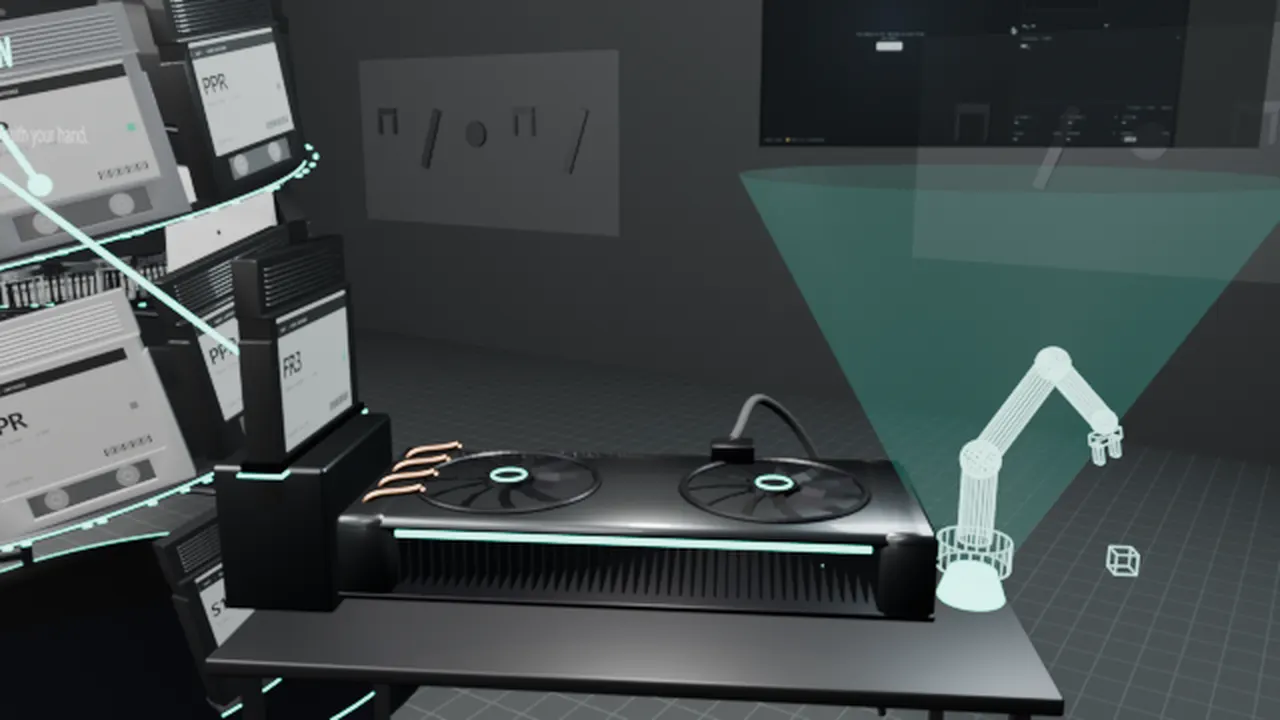
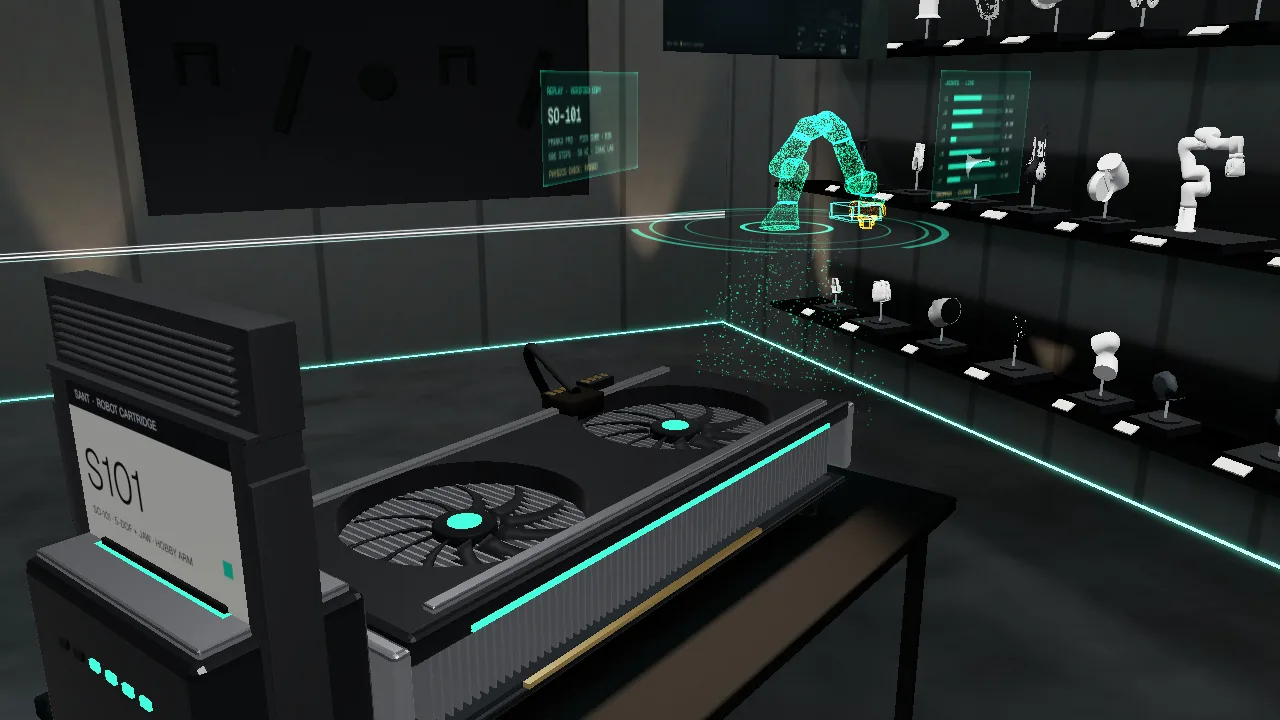
web(world): machine v2 follow-ups: the descent forms the new machine, new stills, the cable tinted
- Descent (Generator.tsx, the machine's targets only): the machine_body share now samples
  machine_v2's surfaces (machineV2Points, coloured per surface, floored at the descent's graphite)
  plus the kept cable and plug, by area. 74 points in the page carry the new model's exact teal.
- Stills: workshop.webp, machine.webp and zoom.webp re-rendered in SwiftShader (1280x720, WebP).
- Cable: CABLE_TINT (0.17, 0.24, 0.35) on the cut body's cable vertices brings it from about
  (99, 84, 72) on screen to (40, 40, 42), the live card's dark rubber; the plug keeps its colour.
  Baked turns vertex colours on when a cut carries them.

diff --git a/web/src/world/stations/descent/Generator.tsx b/web/src/world/stations/descent/Generator.tsx
@@ -1,8 +1,9 @@
 // The transition's particles (generatorPlan.ts): one Points draw. Over the descent THE RING (the reactor's
 // top ring, lifted off the core: stations/intro) bursts into a cloud that fills the shaft round the
 // camera as it dives through, then every particle streams down onto its point of the
-// workshop, sampled from the baked GLBs with the colour of the atlas there, and the cartridges on the
-// spiral and the shelves as boxes. The room is a glittering sculpture before it is a room. As the
+// workshop, sampled from the baked GLBs with the colour of the atlas there (the machine from
+// machine_v2.glb with its surfaces' colours, scene/machineV2.ts), and the cartridges on the spiral and the
+// shelves as boxes. The room is a glittering sculpture before it is a room. As the
 // workshop's travel materializes the real surfaces (scene/dissolve.ts), each particle fades exactly
 // where its surface appears: the shader evaluates the same field at its target. Off with reduced motion
 // (the room fades in behind the veil instead).
@@ -13,9 +14,11 @@ import * as THREE from "three";
 import { ambient } from "../../core/activity";
 import type { QualityTier } from "../../core/quality";
 import type { StationFrame } from "../../core/types";
-import { BAKED, bakedUrl, type BakedName } from "../../scene/assets";
+import { MACHINE_ANCHOR } from "../../core/layout";
+import { BAKED, MACHINE_V2_URL, bakedUrl, type BakedName } from "../../scene/assets";
 import { DISSOLVE_EDGE, DISSOLVE_GLSL, dissolve, FIELD_MAX } from "../../scene/dissolve";
 import { HELIX, LIBRARY, type Slot } from "../../scene/layout";
+import { cutBakedBody, machineV2Points, splitMachineV2, surfaceArea } from "../../scene/machineV2";
 import { RING_TUBE, THE_RING } from "../intro/layout";
 import { seeded } from "../intro/particles";
 import { burstPoints, POINTS, SHARES, sampleBox, sampleTriangles, splitBudget, type Piece } from "./generatorPlan";
@@ -117,7 +120,7 @@ interface Buffers {
   geometry: THREE.BufferGeometry;
 }
 
-function build(scenes: Record<BakedName, THREE.Object3D>, n: number): Buffers {
+function build(scenes: Record<BakedName, THREE.Object3D>, machine: THREE.Object3D, n: number): Buffers {
   const rnd = seeded(23);
   const counts = splitBudget(n, SHARES);
   const target = new Float32Array(n * 3);
@@ -126,13 +129,8 @@ function build(scenes: Record<BakedName, THREE.Object3D>, n: number): Buffers {
   const c = new THREE.Color();
   const v = new THREE.Vector3();
 
-  for (const name of BAKED) {
-    const count = counts[name as Piece];
-    const root = scenes[name];
-    root.updateMatrixWorld(true);
-    const mesh = root.getObjectByName(`baked_${name}`) as THREE.Mesh | undefined;
-    if (!mesh || !count) continue;
-    const g = mesh.geometry as THREE.BufferGeometry;
+  /** count points over a baked mesh (geometry g, in its own frame), coloured from its atlas. */
+  const sampleBaked = (mesh: THREE.Mesh, g: THREE.BufferGeometry, count: number) => {
     const s = sampleTriangles(
       { position: g.attributes.position.array, index: g.index ? g.index.array : null, uv: g.attributes.uv ? g.attributes.uv.array : null },
       count,
@@ -145,6 +143,35 @@ function build(scenes: Record<BakedName, THREE.Object3D>, n: number): Buffers {
       read(s.uv[i * 2], s.uv[i * 2 + 1], c);
       color.set([c.r, c.g, c.b], at * 3);
     }
+  };
+
+  for (const name of BAKED) {
+    const count = counts[name as Piece];
+    const root = scenes[name];
+    root.updateMatrixWorld(true);
+    const mesh = root.getObjectByName(`baked_${name}`) as THREE.Mesh | undefined;
+    if (!mesh || !count) continue;
+    const g = mesh.geometry as THREE.BufferGeometry;
+    if (name !== "machine_body") {
+      sampleBaked(mesh, g, count);
+      continue;
+    }
+    // The machine is machine_v2 now (scene/machineV2.ts): its own surfaces, plus what the room keeps of
+    // the baked body (the cable and plug), each its share of the points by area.
+    const parts = splitMachineV2(machine);
+    const cable = cutBakedBody(g);
+    const area = [parts.body, parts.glow, parts.slot, parts.lens, ...parts.fans.flatMap((f) => [f.body, f.mark])].reduce((s, x) => s + surfaceArea(x), 0);
+    const cableN = Math.round((count * surfaceArea(cable)) / (surfaceArea(cable) + area));
+    sampleBaked(mesh, cable, cableN);
+    const pts = machineV2Points(parts, count - cableN, rnd);
+    const anchor = new THREE.Vector3(...MACHINE_ANCHOR);
+    for (let i = 0; i < count - cableN; i++, at++) {
+      v.fromArray(pts.position, i * 3).add(anchor);
+      target.set([v.x, v.y, v.z], at * 3);
+      color.set([pts.color[i * 3], pts.color[i * 3 + 1], pts.color[i * 3 + 2]], at * 3);
+    }
+    cable.dispose();
+    [parts.body, parts.glow, parts.slot, parts.lens, ...parts.fans.flatMap((f) => [f.body, f.mark])].forEach((x) => x.dispose());
   }
   const shells = HELIX.map((h) => (h.shell ? new THREE.Color(h.shell[0], h.shell[1], h.shell[2]) : null));
   for (const [slots, count, shell] of [
@@ -176,12 +203,13 @@ function build(scenes: Record<BakedName, THREE.Object3D>, n: number): Buffers {
 
 export function Generator({ frame, quality, reduced }: { frame: StationFrame; quality: QualityTier; reduced: boolean }) {
   const gltfs = useGLTF(BAKED.map(bakedUrl), false) as unknown as { scene: THREE.Object3D }[];
+  const machine = useGLTF(MACHINE_V2_URL, false);
   const gl = useThree((s) => s.gl);
   const invalidate = useThree((s) => s.invalidate);
   const n = POINTS[quality.name];
   const points = useMemo(() => {
     const scenes = Object.fromEntries(BAKED.map((name, i) => [name, gltfs[i].scene])) as Record<BakedName, THREE.Object3D>;
-    const { geometry } = build(scenes, n);
+    const { geometry } = build(scenes, machine.scene, n);
     const material = new THREE.ShaderMaterial({
       vertexShader: vert,
       fragmentShader: frag,
@@ -205,7 +233,7 @@ export function Generator({ frame, quality, reduced }: { frame: StationFrame; qu
     p.raycast = () => {};
     p.visible = false;
     return p;
-  }, [gltfs, n]);
+  }, [gltfs, machine, n]);
   useEffect(
     () => () => {
       points.geometry.dispose();

diff --git a/web/src/world/scene/machineV2.ts b/web/src/world/scene/machineV2.ts
@@ -181,15 +181,116 @@ export const BAKED_BODY_KEEP: Record<"Cable" | "PowerPlug", THREE.Box3> = {
   PowerPlug: new THREE.Box3(new THREE.Vector3(0.132, 4.44, -1.582), new THREE.Vector3(0.742, 4.68, -1.034)),
 };
 
-/** The baked body (in the room's frame) with only the pieces whose centre is in a BAKED_BODY_KEEP box. */
+/**
+ * The cable's tint (linear, times its atlas). Its atlas was lit warm from above: about (99, 84, 72) on
+ * screen beside the live card's dark parts at (19, 20, 22) (measured, SwiftShader, high). This brings it
+ * to about (40, 40, 42), the card's dark rubber under the same lamp. The plug is already that dark.
+ */
+export const CABLE_TINT = new THREE.Color(0.17, 0.24, 0.35);
+
+/**
+ * The baked body (in the room's frame) with only the pieces whose centre is in a BAKED_BODY_KEEP box,
+ * coloured per vertex: the cable's pieces CABLE_TINT, the plug's white (Baked multiplies its atlas by it).
+ */
 export function cutBakedBody(g: THREE.BufferGeometry): THREE.BufferGeometry {
   const anchor = new THREE.Vector3(...MACHINE_ANCHOR);
   const local = new THREE.Vector3();
-  const keep = connectedPieces(g).filter((p) => {
+  const owner = (p: Piece) => {
     local.copy(p.centre).sub(anchor);
-    return Object.values(BAKED_BODY_KEEP).some((b) => b.containsPoint(local));
-  });
-  const out = subGeometry(g, keep.flatMap((p) => p.tris));
+    return BAKED_BODY_KEEP.PowerPlug.containsPoint(local) ? "plug" : BAKED_BODY_KEEP.Cable.containsPoint(local) ? "cable" : null;
+  };
+  const keep = connectedPieces(g)
+    .map((p) => ({ p, who: owner(p) }))
+    .filter((x) => x.who !== null);
+  const out = subGeometry(g, keep.flatMap((x) => x.p.tris));
+  // subGeometry numbers the vertices in the order the triangles name them: colour them in the same order.
+  const idx = g.index ? (g.index.array as ArrayLike<number>) : [...Array(g.getAttribute("position").count).keys()];
+  const tintOf = new Map<number, THREE.Color>();
+  const white = new THREE.Color(1, 1, 1);
+  for (const { p, who } of keep) for (const t of p.tris) for (let k = 0; k < 3; k++) if (!tintOf.has(idx[t + k])) tintOf.set(idx[t + k], who === "cable" ? CABLE_TINT : white);
+  const col = new Float32Array(tintOf.size * 3);
+  [...tintOf.values()].forEach((c, i) => col.set([c.r, c.g, c.b], i * 3));
+  out.setAttribute("color", new THREE.BufferAttribute(col, 3));
   out.computeBoundingSphere();
   return out;
+}
+
+/** The darkest a point of the descent's sculpture gets (its graphite, stations/descent/Generator.tsx): a darker one wouldn't show. */
+export const PARTICLE_FLOOR = new THREE.Color().setRGB(0.1, 0.11, 0.12, THREE.SRGBColorSpace);
+const lum = (c: THREE.Color) => 0.2126 * c.r + 0.7152 * c.g + 0.0722 * c.b;
+
+/** A triangle mesh's area. */
+export function surfaceArea(g: THREE.BufferGeometry): number {
+  const p = g.getAttribute("position");
+  const idx = g.index ? (g.index.array as ArrayLike<number>) : [...Array(p.count).keys()];
+  const a = new THREE.Vector3(), b = new THREE.Vector3(), c = new THREE.Vector3();
+  let total = 0;
+  for (let t = 0; t < idx.length; t += 3) {
+    a.fromBufferAttribute(p as never, idx[t]);
+    b.fromBufferAttribute(p as never, idx[t + 1]).sub(a);
+    c.fromBufferAttribute(p as never, idx[t + 2]).sub(a);
+    total += 0.5 * b.cross(c).length();
+  }
+  return total;
+}
+
+/**
+ * n points over the machine's surfaces by area, in the machine's frame, each with its surface's colour
+ * (linear; the body's per vertex, the lights' glow): the descent's particle sculpture of the machine.
+ */
+export function machineV2Points(m: MachineV2, n: number, rnd: () => number): { position: Float32Array; color: Float32Array } {
+  const surfaces: { g: THREE.BufferGeometry; at: THREE.Vector3; color: THREE.Color | null }[] = [
+    { g: m.body, at: new THREE.Vector3(), color: null },
+    ...m.fans.map((f) => ({ g: f.body, at: f.centre, color: null })),
+    ...m.fans.map((f) => ({ g: f.mark, at: f.centre, color: m.glowColor })),
+    { g: m.glow, at: new THREE.Vector3(), color: m.glowColor },
+    { g: m.slot, at: new THREE.Vector3(), color: m.glowColor },
+    { g: m.lens, at: new THREE.Vector3(), color: m.lensColor },
+  ];
+  // Every triangle, with its cumulative area.
+  const tris: { s: number; t: number }[] = [];
+  const cum: number[] = [];
+  const a = new THREE.Vector3(), b = new THREE.Vector3(), c = new THREE.Vector3();
+  let total = 0;
+  surfaces.forEach((s, si) => {
+    const p = s.g.getAttribute("position");
+    const idx = s.g.index!.array as ArrayLike<number>;
+    for (let t = 0; t < idx.length; t += 3) {
+      a.fromBufferAttribute(p as never, idx[t]);
+      b.fromBufferAttribute(p as never, idx[t + 1]).sub(a);
+      c.fromBufferAttribute(p as never, idx[t + 2]).sub(a);
+      total += 0.5 * b.cross(c).length();
+      tris.push({ s: si, t });
+      cum.push(total);
+    }
+  });
+  const position = new Float32Array(n * 3);
+  const color = new Float32Array(n * 3);
+  const col = new THREE.Color();
+  const v = new THREE.Vector3();
+  for (let i = 0; i < n; i++) {
+    const x = rnd() * total;
+    let lo = 0, hi = cum.length - 1;
+    while (lo < hi) {
+      const mid = (lo + hi) >> 1;
+      if (cum[mid] < x) lo = mid + 1;
+      else hi = mid;
+    }
+    const { s, t } = tris[lo];
+    const surf = surfaces[s];
+    const p = surf.g.getAttribute("position");
+    const idx = surf.g.index!.array as ArrayLike<number>;
+    let r1 = rnd(), r2 = rnd();
+    if (r1 + r2 > 1) [r1, r2] = [1 - r1, 1 - r2];
+    a.fromBufferAttribute(p as never, idx[t]);
+    b.fromBufferAttribute(p as never, idx[t + 1]);
+    c.fromBufferAttribute(p as never, idx[t + 2]);
+    v.copy(a).multiplyScalar(1 - r1 - r2).addScaledVector(b, r1).addScaledVector(c, r2).add(surf.at);
+    position.set([v.x, v.y, v.z], i * 3);
+    if (surf.color) col.copy(surf.color);
+    else col.fromBufferAttribute(surf.g.getAttribute("color") as never, idx[t]);
+    if (lum(col) < lum(PARTICLE_FLOOR)) col.copy(PARTICLE_FLOOR);
+    color.set([col.r, col.g, col.b], i * 3);
+  }
+  return { position, color };
 }

diff --git a/web/src/world/scene/machineV2.test.ts b/web/src/world/scene/machineV2.test.ts
@@ -3,7 +3,7 @@ import * as THREE from "three";
 import { GLTFLoader, type GLTF } from "three/examples/jsm/loaders/GLTFLoader.js";
 import { readPublic } from "../../twin/testFiles";
 import { MACHINE_ANCHOR } from "../core/layout";
-import { BAKED_BODY_KEEP, HOLO_ABOVE_LENS, cutBakedBody, splitMachineV2, type MachineV2 } from "./machineV2";
+import { BAKED_BODY_KEEP, CABLE_TINT, HOLO_ABOVE_LENS, PARTICLE_FLOOR, cutBakedBody, machineV2Points, splitMachineV2, surfaceArea, type MachineV2 } from "./machineV2";
 import { PORT_LOCAL, SLOT_TOP_LOCAL } from "./plugSequence";
 
 const tris = (g: THREE.BufferGeometry) => (g.index ? g.index.count : g.getAttribute("position").count) / 3;
@@ -110,6 +110,29 @@ describe("the baked machine body under the new machine", () => {
     // machine.glb's M_Cable (864 triangles) and M_PowerPlug (108), baked.
     expect(tris(cut)).toBe(864 + 108);
     expect(cut.getAttribute("uv")).toBeTruthy();
+    // The cable's atlas was lit warm from above (about (99, 84, 72) on screen against the live card's
+    // (19, 20, 22)): its vertices carry CABLE_TINT to bring it to the card's dark rubber; the plug, already
+    // that dark, keeps its colour.
+    const col = cut.getAttribute("color");
+    expect(col).toBeTruthy();
+    const anchorAt = new THREE.Vector3(...MACHINE_ANCHOR);
+    const q = new THREE.Vector3();
+    const pos = cut.getAttribute("position");
+    let cable = 0, plug = 0;
+    for (let i = 0; i < pos.count; i++) {
+      q.fromBufferAttribute(pos as never, i).sub(anchorAt);
+      const tint = [col.getX(i), col.getY(i), col.getZ(i)];
+      // By piece: the plug's own vertices stay white, the cable's (some reach into the plug) are tinted.
+      if (tint.every((x) => x === 1)) {
+        plug++;
+        expect(BAKED_BODY_KEEP.PowerPlug.containsPoint(q)).toBe(true);
+      } else {
+        expect(tint.map((x) => +x.toFixed(3))).toEqual([CABLE_TINT.r, CABLE_TINT.g, CABLE_TINT.b].map((x) => +x.toFixed(3)));
+        if (!BAKED_BODY_KEEP.PowerPlug.containsPoint(q)) cable++;
+      }
+    }
+    expect(plug).toBeGreaterThan(0);
+    expect(cable).toBeGreaterThan(0.9 * (pos.count - plug));
     // The keep boxes are the old nodes' own (machine.glb, in the machine's frame).
     const old = (await glb("world/models/machine.glb")).scene;
     old.updateMatrixWorld(true);
@@ -127,5 +150,43 @@ describe("the baked machine body under the new machine", () => {
       v.fromBufferAttribute(p as never, i).sub(anchor);
       expect(Object.values(BAKED_BODY_KEEP).some((b) => b.clone().expandByScalar(0.3).containsPoint(v))).toBe(true);
     }
+  });
+});
+
+describe("the descent's sculpture of the machine (machineV2Points)", () => {
+  const rnd = (seed: number) => () => ((seed = (seed * 16807) % 2147483647) - 1) / 2147483646;
+
+  it("spreads points over the new machine's surfaces, the same every visit", () => {
+    const a = machineV2Points(m, 4000, rnd(7));
+    const b = machineV2Points(m, 4000, rnd(7));
+    expect(a.position).toHaveLength(4000 * 3);
+    expect(a.color).toHaveLength(4000 * 3);
+    expect([...a.position]).toEqual([...b.position]);
+    // On the card, the dock and the lens: inside the model's bounds (machine frame).
+    const box = new THREE.Box3().setFromObject(v2.scene).expandByScalar(0.01);
+    const p = new THREE.Vector3();
+    for (let i = 0; i < 4000; i++) expect(box.containsPoint(p.fromArray(a.position, i * 3))).toBe(true);
+    // The fans are there too (around their axes, at fan height), not left at the origin.
+    const nearFan = (i: number) => m.fans.some((f) => Math.hypot(a.position[i * 3] - f.centre.x, a.position[i * 3 + 2] - f.centre.z) < 0.9 && a.position[i * 3 + 1] > 4.1);
+    expect([...Array(4000).keys()].filter(nearFan).length).toBeGreaterThan(40);
+  });
+
+  it("colours each point by its surface: the teal lights teal, nothing darker than the descent's graphite", () => {
+    const { color } = machineV2Points(m, 6000, rnd(3));
+    const c = new THREE.Color();
+    let teal = 0;
+    for (let i = 0; i < 6000; i++) {
+      c.fromArray(color, i * 3);
+      if (c.g > 0.9 && c.r < 0.2) teal++;
+      expect(0.2126 * c.r + 0.7152 * c.g + 0.0722 * c.b).toBeGreaterThanOrEqual(0.2126 * PARTICLE_FLOOR.r + 0.7152 * PARTICLE_FLOOR.g + 0.0722 * PARTICLE_FLOOR.b - 1e-6);
+    }
+    expect(teal).toBeGreaterThan(30);
+    expect(teal).toBeLessThan(6000 * 0.2);
+  });
+
+  it("measures a surface's area (for the cable's share of the machine's points)", () => {
+    const quad = new THREE.PlaneGeometry(2, 3);
+    expect(surfaceArea(quad)).toBeCloseTo(6, 6);
+    expect(surfaceArea(m.body)).toBeGreaterThan(10);
   });
 });

diff --git a/web/src/world/scene/Baked.tsx b/web/src/world/scene/Baked.tsx
@@ -25,7 +25,10 @@ export function Baked({ name, anisotropy = 1, cut }: { name: BakedName; anisotro
     // The atlas is already the final picture: no tone mapping on top of it.
     const material = new THREE.MeshBasicMaterial({ map, toneMapped: false, side: THREE.DoubleSide });
     const whole = src.geometry as THREE.BufferGeometry;
-    return { geometry: cut ? cut(whole) : whole, material };
+    const geometry = cut ? cut(whole) : whole;
+    // A cut may tint its parts per vertex (the machine body's cable, machineV2.ts): the atlas times it.
+    material.vertexColors = !!geometry.getAttribute("color");
+    return { geometry, material };
   }, [gltf, name, url, anisotropy, cut]);
 
   useEffect(() => {

diff --git a/docs/superpowers/notes/2026-10-20-machine-v2.md b/docs/superpowers/notes/2026-10-20-machine-v2.md
@@ -120,15 +120,56 @@ was rendered from a set camera, so they have no bloom or grain pass.
 **Left uncommitted** (no `rm`): `web/src/world/scene/zz_diag.test.ts`, a no-op test file left from a diagnostic.
 Delete it by hand.
 
+## Follow-ups (the lead, same evening)
+
+### 1. The descent's sculpture forms the new machine
+
+- **What changed in T2's descent:** only the machine's targets (`stations/descent/Generator.tsx`). The
+  `machine_body` share of the particles now goes to:
+  - the room's kept cable and plug (`cutBakedBody`), coloured from the atlas as before;
+  - the new machine's own surfaces (`machineV2Points`, offset by `MACHINE_ANCHOR`).
+- **How they share it:** by area.
+- **Colours:** the machine's points take their surface's colour: the body per vertex, the teal lights' glow, the
+  lens's glass. They are floored at the descent's graphite, so dark metal still shows.
+- **Measured in the page:** of 110,000 points, 12,224 lie in the machine's volume, and 74 of them carry the new
+  model's exact teal (the atlas never had that colour).
+- **Tests:** `machineV2Points` is deterministic, on the model, reaches the fans, and is coloured by surface;
+  `surfaceArea` is tested too.
+
+### 2. The stills fallback, regenerated (SwiftShader, high, 1280×720, WebP q82)
+
+| Still | How |
+|---|---|
+| `workshop.webp` | The room from the hub, page UI hidden, the in-scene labels kept: the new machine, the real robots on the walls (the old still had the library and the old card) |
+| `machine.webp` | A set camera over the dock: the cartridge seated, the card, the hologram, the robot wall behind |
+| `zoom.webp` | A set camera in front of the projection (the old still had the old wire arm) |
+
+- **How the set-camera stills were made:** the frame loop was stopped and one frame was rendered, so they have no
+  bloom or grain pass; the old stills were Blender renders without them either.
+- **Not redone:** `story.webp` and `descent.webp` don't show the room. `workbench.webp` shows only cartridges.
+- **The first try of `zoom.webp`** caught the zoom handing off to the Record page; it was overwritten.
+
+### 3. The cable's tint
+
+**Measured on screen (from above, high):**
+- the baked cable: about (99, 84, 72), lit warm from above in its atlas;
+- the live card's dark parts: (19, 20, 22);
+- the baked plug: (24, 21, 15), already matching.
+
+**The fix:**
+- One multiply on the cable's vertices only, `CABLE_TINT` (0.17, 0.24, 0.35) linear (`cutBakedBody` writes the
+  colours; `Baked` turns vertex colours on when a cut has them).
+- It brings the cable to (39–43, 39–41, 40–43): dark rubber.
+- It is a strong darkening rather than a subtle tint, but one multiply does it. The plug keeps its colour.
+- Before and after: `12-cable-before-tint.png`, `13-cable-after-tint.png`.
+- **Tests:** the cable's pieces carry the tint, and the plug's stay white.
+
+**Not tinted:** the descent's points on the cable still take the untinted atlas colour.
+
+**Checks after the follow-ups:** 1,573 passed, 2 skipped; typecheck and build pass.
+
 ## Open
 
-- **The baked cable** keeps its old baked shading, a little lighter and warmer than the live card beside it. A
-  re-bake of the cable alone, or drawing it live too, would match.
-- **The descent's particles** are still built from the whole baked body, so the particles that become the machine
-  form the old card's outline, and the new card shows when the room lands. That's for the descent's owner: build
-  them from the cut body, or from `machine_v2.glb`.
-- **The stills fallback** (`stills/machine.webp`, `workshop.webp`) still shows the old machine. It needs a
-  re-render.
 - **The plug-in in motion** wasn't caught in a still (SwiftShader frames are slow). The path is tested; the seated
   end is in `08`.
 - **Not tried by a person,** and not on a real GPU.
